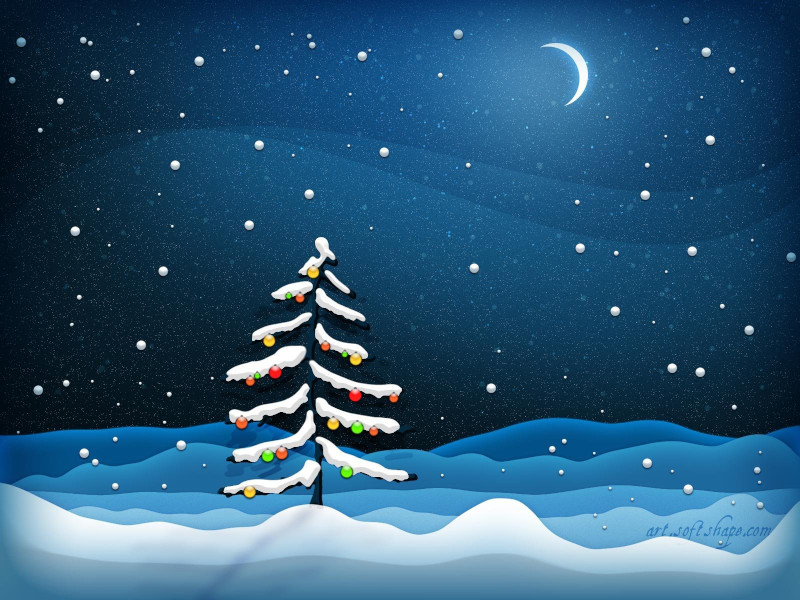
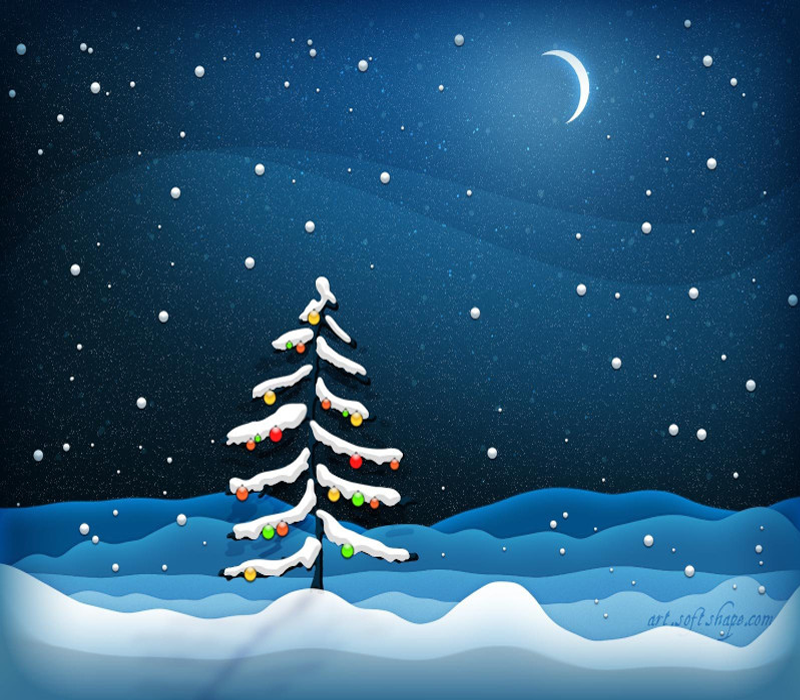
changed css, changed how mouse is located because canvas is now offset to centre of the page, moved event listeners from toolbar to dragdrop

diff --git a/src/dragDrop.js b/src/dragDrop.js
@@ -21,6 +21,7 @@ class DragDrop {
     this.game.canvas.addEventListener('mouseup', (event) => {
       if (this.isOccupied(this.mouse, this.weapons)) return;
       if (this.mouse.y > 600) return;
+
       let tile = this.findTile();
 
       this.selection.y = tile.y;
@@ -28,18 +29,34 @@ class DragDrop {
       this.selection.isActive = true;
       this.selection = null;
     }, true);
-  }
 
-  addSelection(obj) {
-    if(this.selection) return false;
-    this.selection = obj;
-    this.dragOffsetX = this.mouse.x - obj.x;
-    this.dragOffsetY = this.mouse.y - obj.y;
+    this.game.canvas.addEventListener('mousedown', (event) => {
+      if(this.game.dragDrop.selection) return;
+      if(!(this.mouse.y >= 600 && this.mouse.y <= 700)) return; // not in toolbar!
+
+      let weapon;
+
+      if (this.mouse.x >= 0 && this.mouse.x < 100) {
+        if(!this.game.christmasSpirit >= 50) return;
+        weapon = new GingerbreadMan(0, 600, this.game);
+      } else if (this.mouse.x >= 100 && this.mouse.x < 200) {
+        if(!this.game.christmasSpirit >= 10) return;
+        weapon = new ChristmasPudding(100, 600, this.game);   
+      } else {
+        return; // RETURN IF 'NULL' IS SELECTED - WILL CRASH IF REMOVED
+      }
+
+      this.game.christmasSpirit -= weapon.cost;     
+      this.game.addWeapon(weapon);
+      this.selection = weapon;
+      this.dragOffsetX = this.mouse.x - weapon.x;
+      this.dragOffsetY = this.mouse.y - weapon.y;
+    }, true);
   }
 
   updateMousePos(event) {
-    this.mouse.x = event.pageX - this.canvasOffset.top
-    this.mouse.y = event.pageY - this.canvasOffset.left
+    this.mouse.x = (event.clientX - this.canvasOffset.left) / (this.canvasOffset.right - this.canvasOffset.left) * canvas.width;
+    this.mouse.y = (event.clientY - this.canvasOffset.top) / (this.canvasOffset.bottom - this.canvasOffset.top) * canvas.height;
   }
 
   isOccupied() {

diff --git a/src/toolbar.js b/src/toolbar.js
@@ -6,7 +6,6 @@ class Toolbar {
     this.type = type;
     this.elementX = x;
     this.y = y;
-    this.init();
   }
 
   draw() {
@@ -27,26 +26,12 @@ class Toolbar {
     this.game.ctx.font = "30px Lobster";
     this.game.ctx.fillText('10', 165, 690);
   }
-    displayScore(){
-        this.game.ctx.fillStyle = 'rgb(213,0,0)';
-        this.game.ctx.strokeStyle = 'black';
-        this.game.ctx.font = "30px Lobster";
-        this.game.ctx.fillText(`${this.game.christmasSpirit}`, 725, 660);
-        this.game.ctx.fill();   
-    }
 
-  init() {
-    this.game.canvas.addEventListener('mousedown', (event) => {
-      if(this.game.dragDrop.selection) return;
-      if (event.x > this.elementX && event.x < this.elementX + 100 && event.y > this.y && event.y < (this.y + 100)) {
-        if (this.type == 'gingerbreadMan' && this.game.christmasSpirit >= 50) {
-          this.game.addWeapon(new GingerbreadMan(0, 600, this.game));
-          this.game.christmasSpirit -= 50;
-        } else if (this.type == 'pudding' && this.game.christmasSpirit >= 10) {
-          this.game.addWeapon(new ChristmasPudding(100, 600, this.game));
-          this.game.christmasSpirit -= 10;
-        }
-      }
-    }, true);
+  displayScore() {
+      this.game.ctx.fillStyle = 'rgb(213,0,0)';
+      this.game.ctx.strokeStyle = 'black';
+      this.game.ctx.font = "30px Lobster";
+      this.game.ctx.fillText(`${this.game.christmasSpirit}`, 725, 660);
+      this.game.ctx.fill();   
   }
 }

diff --git a/src/app.js b/src/app.js
@@ -2,9 +2,10 @@ const canvas = document.getElementById("canvas");
 const canvasBG = document.getElementById("canvas-bg");
 const canvasSnow = document.getElementById("canvas-snow");
 const ctx = canvasBG.getContext("2d");
+var canvasOffset = canvas.getBoundingClientRect();
 var mouseX = 0;
 var mouseY = 0;
-var btnPlay = new Button(516, 642, 177, 255)
+var btnPlay = new Button(516, 642, 177, 255);
 var snow = createSnow(canvasSnow);
 
 window.onload = () => {
@@ -25,7 +26,7 @@ function startGame() {
   document.removeEventListener('click', playBtnClicked, false)
   let game = new Game(canvas);
   ctx.clearRect(0, 0, canvas.width, canvas.height);
-  setBG('bg_main.jpg', canvasBG, createGrid);
+  setBG('bg_main.jpg', canvasBG, 600, createGrid);
   setTB('toolbar_bg.png', canvasBG) 
 
   setInterval(() => {
@@ -36,9 +37,9 @@ function startGame() {
 }
 
 function playBtnClicked(e) {
-  mouseX = e.pageX - canvas.offsetLeft;
-  mouseY = e.pageY - canvas.offsetTop;
+  mouseX = e.pageX - canvasOffset.left;
+  mouseY = e.pageY - canvasOffset.top;
   if (btnPlay.isClicked(mouseX, mouseY)) {
-    startGame()
+    startGame();
   };
 }

diff --git a/src/game.js b/src/game.js
@@ -66,9 +66,7 @@ class Game {
 	}
 
 	addWeapon(weapon) {
-		this.dragDrop.addSelection(weapon)
-		this.weapons.push(weapon)
-		console.log(this.weapons);
+		this.weapons.push(weapon);
 	}
 
 	endGame() {
@@ -77,7 +75,7 @@ class Game {
 		ctxBG.clearRect(0, 0, canvasBG.width, canvasBG.height);
 		this.ctx.clearRect(0, 0, this.canvas.width, this.canvas.height);
 		this.ctx.font = "30px Lobster";
-		setBG('bg_main.jpg', canvasBG);
+		setBG('bg_main.jpg', canvasBG, 700);
 
 		if (this.score == 1) {
 			renderText(`You've renegotiated ${this.score} contract!`, this.canvas);

diff --git a/index.html b/index.html
@@ -7,9 +7,10 @@
 </head>
 
 <body>
-  <canvas id="canvas-bg" width="800" height="700"></canvas>
-  <canvas id="canvas-snow" width="800" height="700"></canvas>
-  <canvas id="canvas" width="800" height="700"></canvas>
+
+    <canvas id="canvas-bg" width="800" height="700"></canvas>
+    <canvas id="canvas-snow" width="800" height="700"></canvas>
+    <canvas id="canvas" width="800" height="700"></canvas>
 
   <!-- Weapons -->
   <script type="text/javascript" src="./src/weapons/weapon.js"></script>

diff --git a/css/styles.css b/css/styles.css
@@ -5,11 +5,22 @@
   src: url(https://fonts.gstatic.com/s/lobster/v20/neILzCirqoswsqX9zoKmM4MwWJU.woff2);
 }
 
-canvas {
-  position: absolute;
+body {
+  background-image: url("../assets/website-bg.png");
+  background-repeat: repeat;
 }
 
-#canvas-snow {
+canvas {
+  top: 50%;
+  left: 50%;
+  display: block;
+  margin: auto;
   position: absolute;
+  transform: translate(-50%, -50%);
+  box-shadow:0 0 10px rgba(0, 0, 0, 0.5);
+}
+
+
+#canvas-snow {
   opacity: 0.5;
 }

diff --git a/src/utility.js b/src/utility.js
@@ -17,12 +17,12 @@ function createGrid() {
   }
 };
 
-function setBG(name, canvas, callback) {
+function setBG(name, canvas, height, callback) {
   let ctx = canvas.getContext('2d');
   let bg = new Image();
   bg.src = `./assets/${name}`
   bg.onload = function() {
-    ctx.drawImage(bg, 0, 0, 800, 600);
+    ctx.drawImage(bg, 0, 0, 800, height);
     callback.call();
   }
 }
